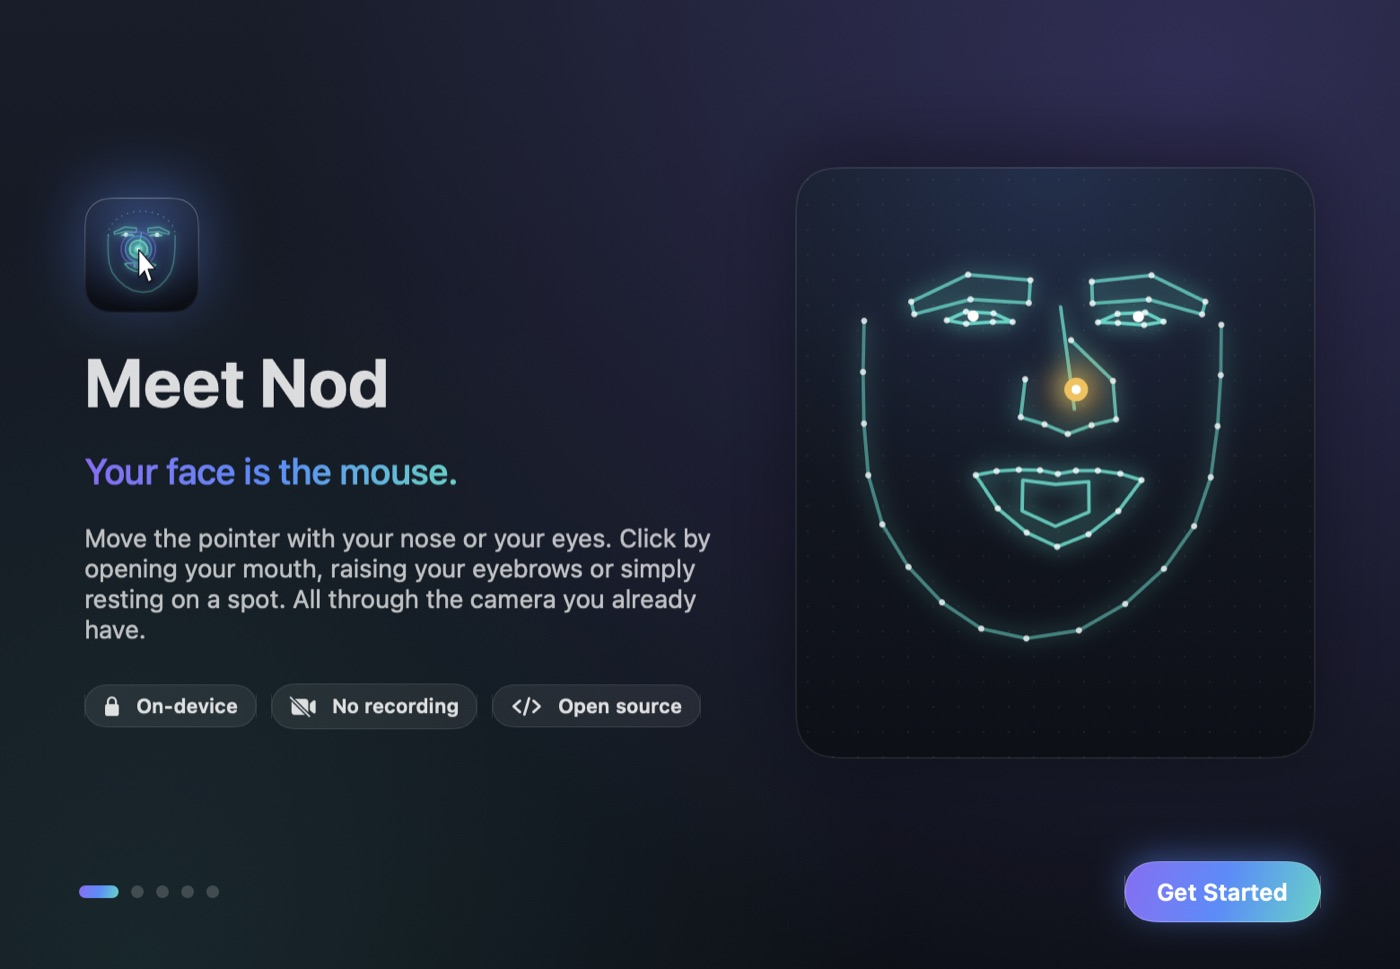
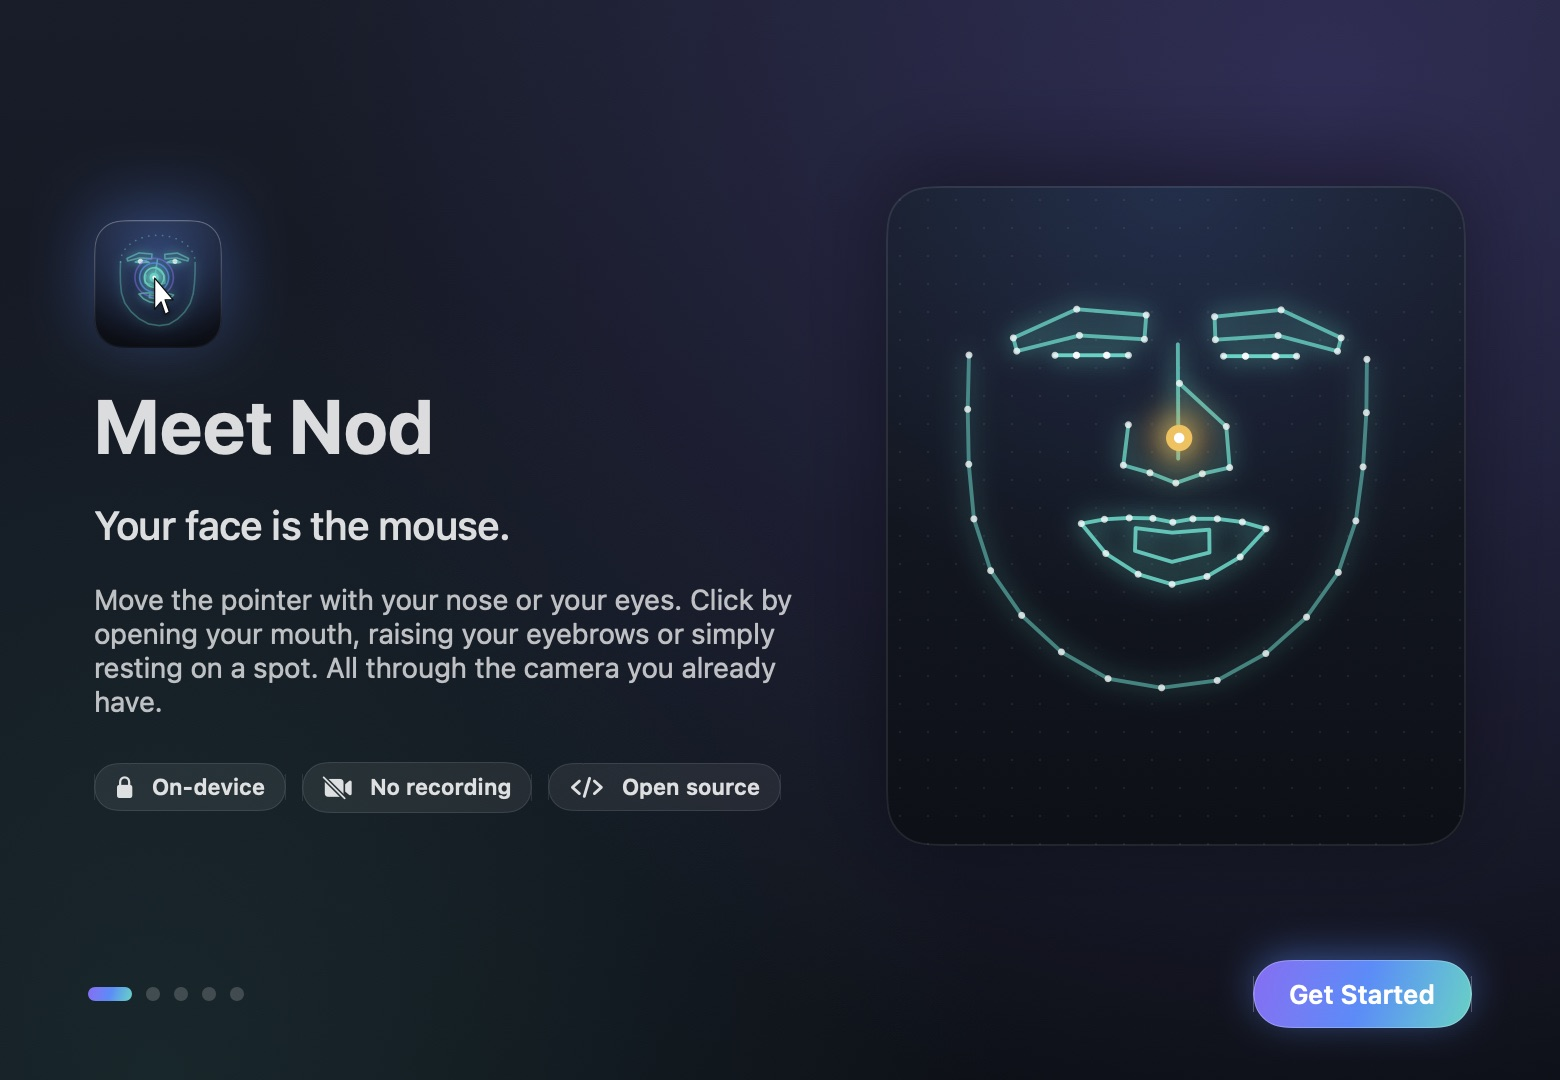
Drop the gradient on the welcome headline

diff --git a/Sources/Nod/UI/Onboarding.swift b/Sources/Nod/UI/Onboarding.swift
@@ -57,7 +57,7 @@ struct OnboardingView: View {
                 Text("Meet Nod").font(.system(size: 38, weight: .bold))
                 Text("Your face is the mouse.")
                     .font(.system(size: 20, weight: .medium))
-                    .foregroundStyle(Theme.anodized)
+                    .foregroundStyle(.white.opacity(0.85))
                 Text("Move the pointer with your nose or your eyes. Click by opening your mouth, raising your eyebrows or simply resting on a spot. All through the camera you already have.")
                     .font(.system(size: 14))
                     .foregroundStyle(.white.opacity(0.72))
